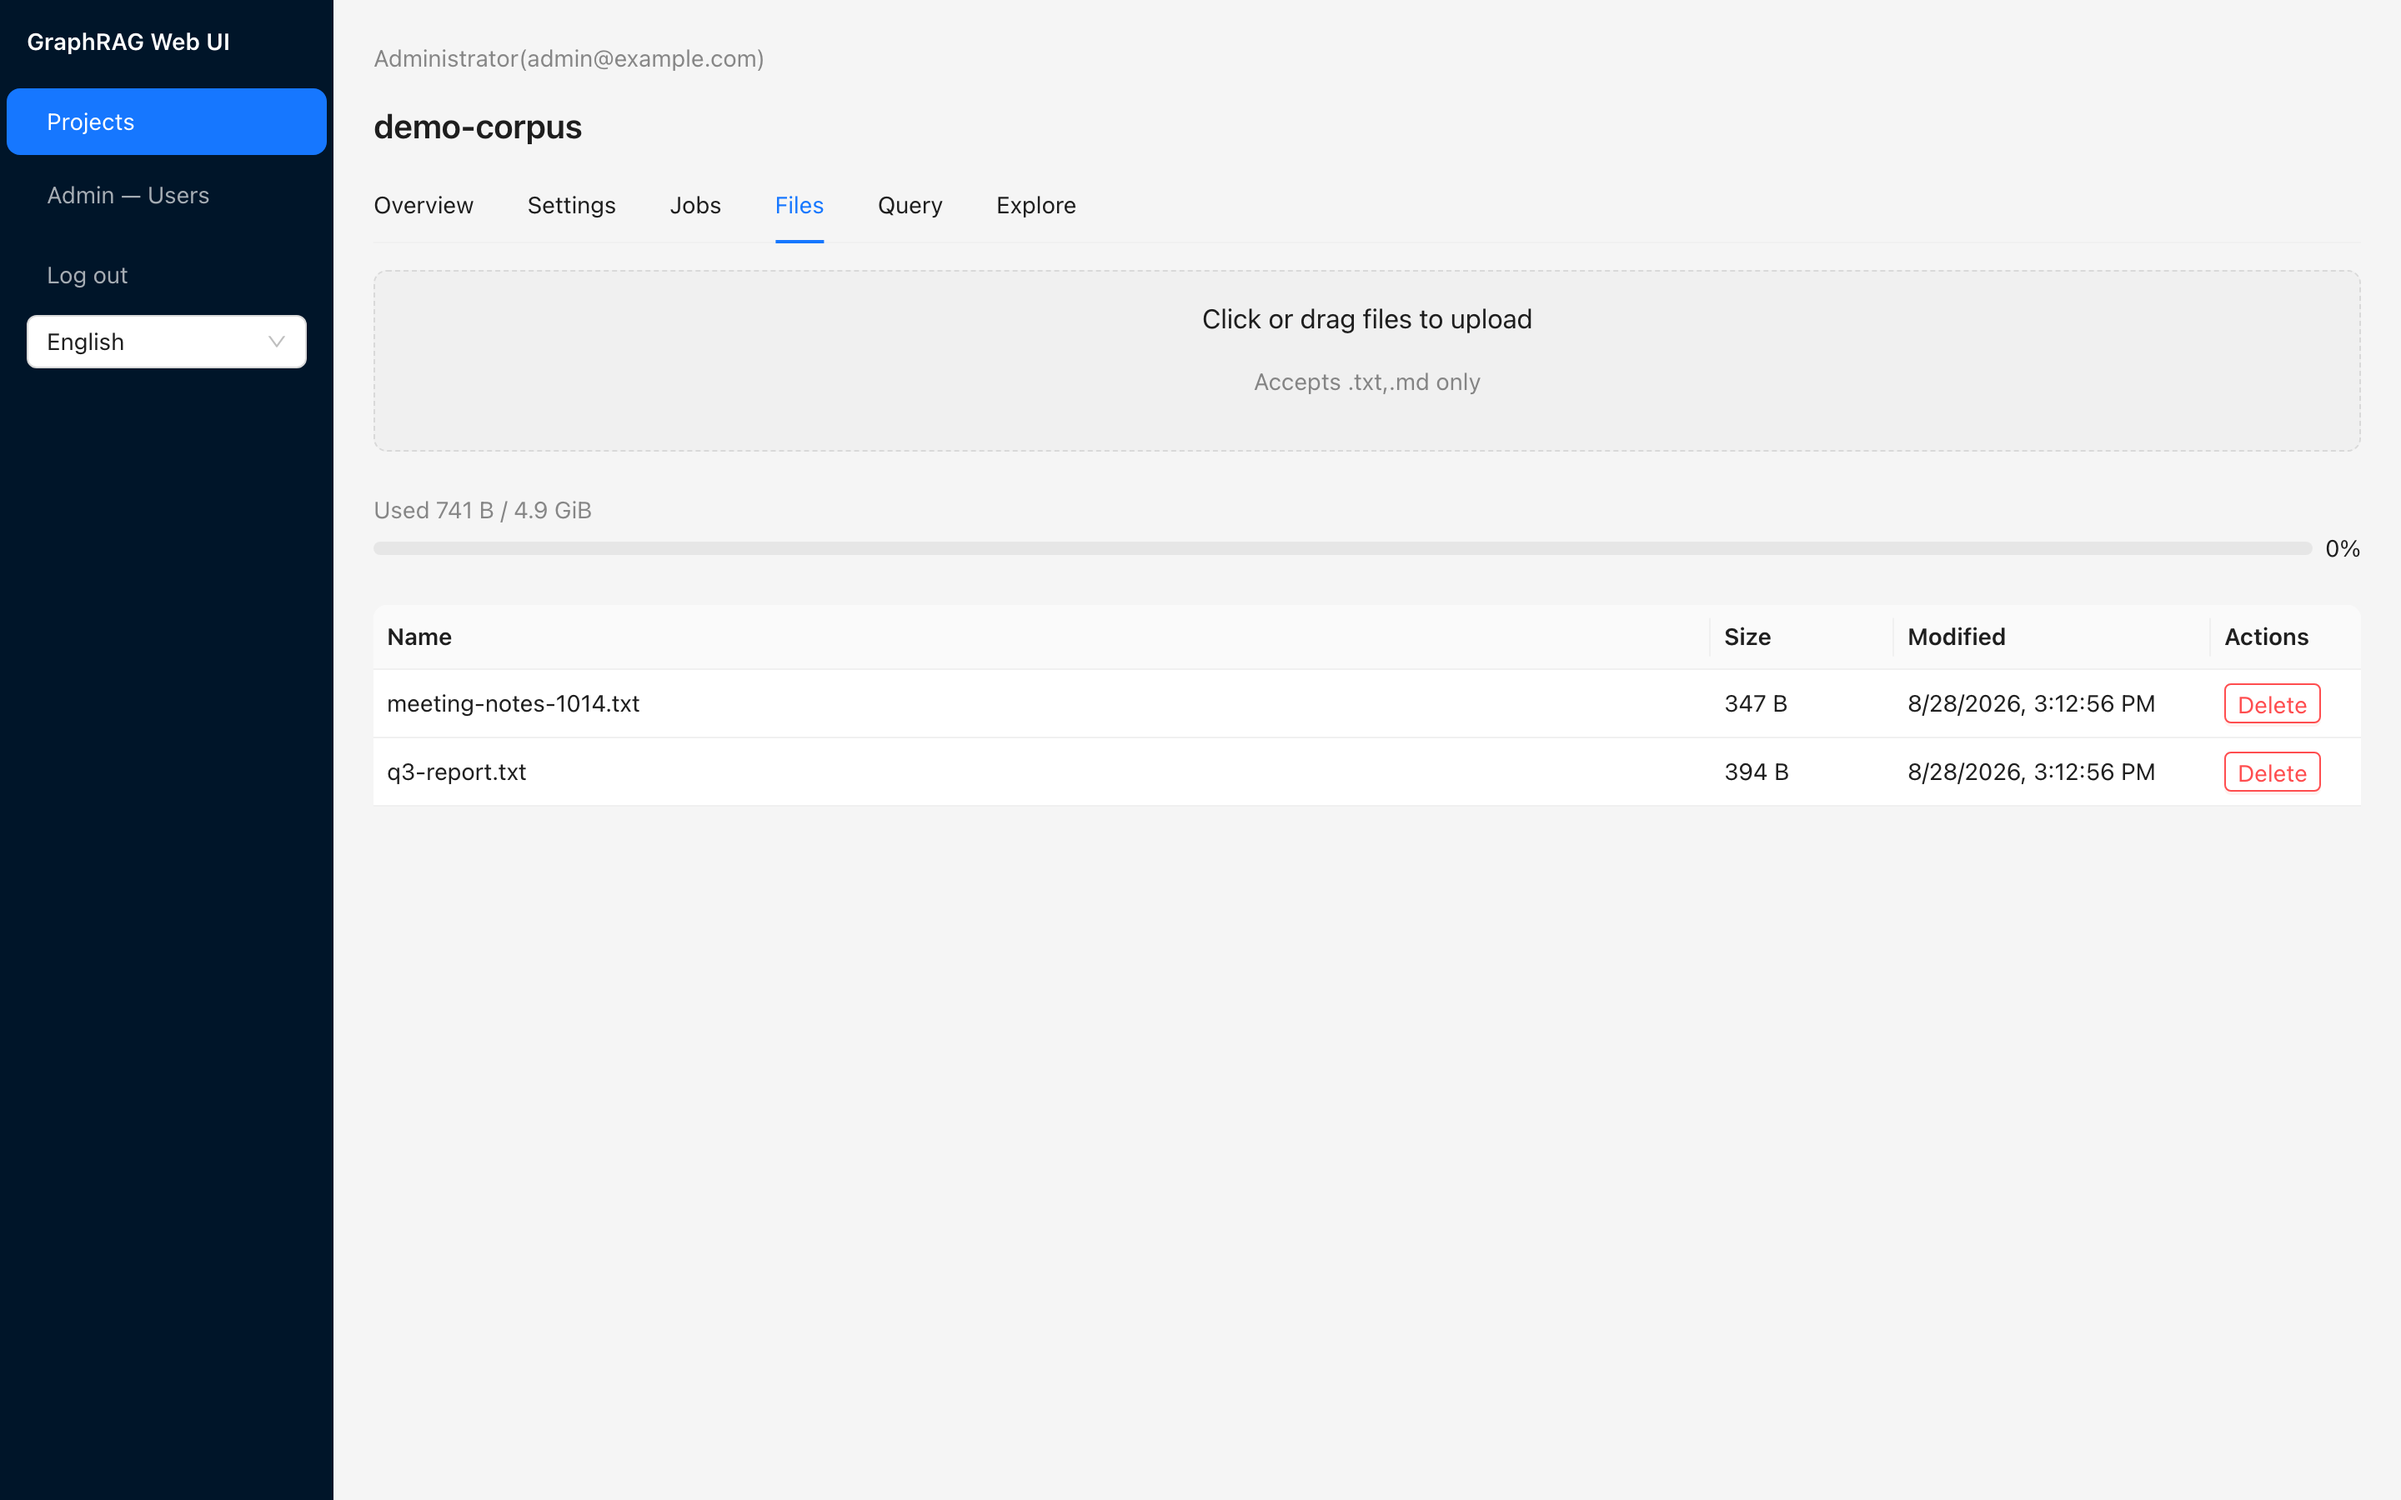
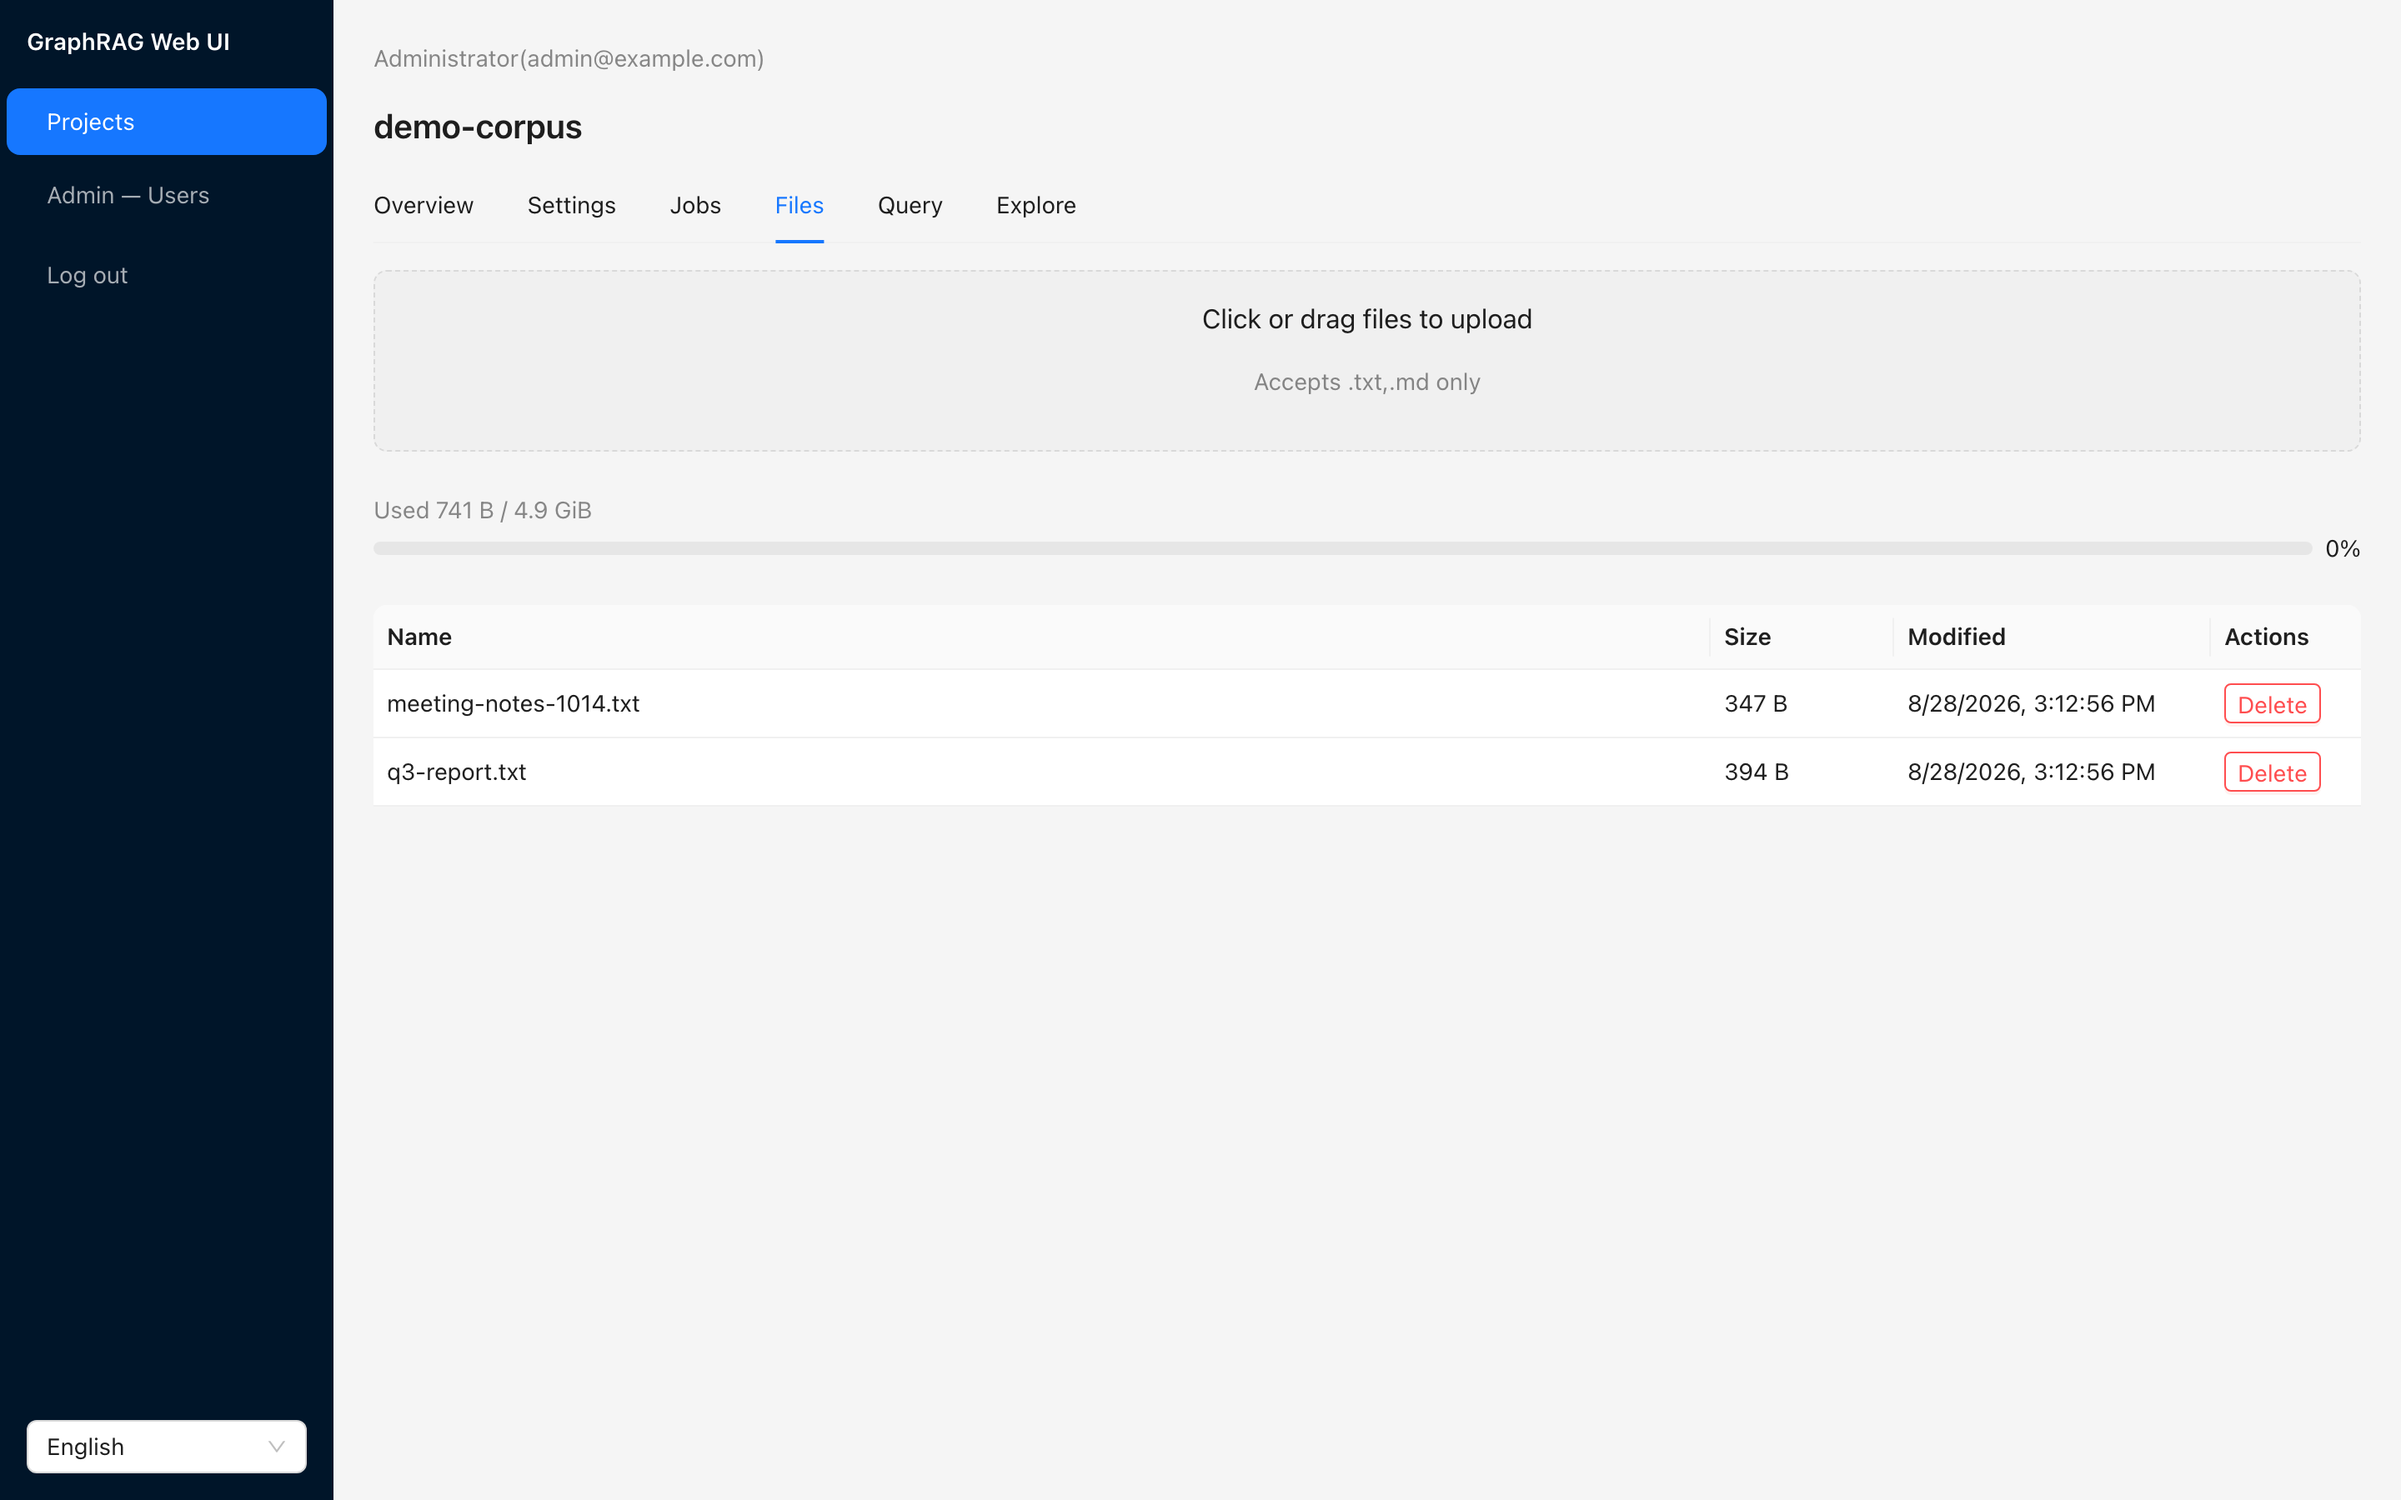
fix(ui): actually pin the language dropdown to the sidebar bottom
The marginTop:auto trick never worked: antd renders
.ant-layout-sider-children as display:block, where auto margins push
nothing — logout and the dropdown sat clustered at the top (select at
y=221 of a 900px viewport, measured). A flex-column wrapper around the
Sider content gives the auto margin a flex context: nav + logout stay
at the top, the whitespace stretches between logout and the dropdown,
and the dropdown pins to the bottom-left corner (select bottom at
y=884, gap 667px, measured).

Both earlier 'placement' commits were render no-ops for the same
reason — the byte-identical screenshots said so, and I misread two
leading image inspections as confirmation. This one is verified by
geometry, not eyeballing.

Changed region(s): [[0.0, 0.9333, 0.125, 0.9956], [0.0, 0.1867, 0.125, 0.2489]]

diff --git a/frontend/src/components/Layout.tsx b/frontend/src/components/Layout.tsx
@@ -28,6 +28,10 @@ export default function Layout() {
   return (
     <AntLayout style={{ minHeight: "100vh" }}>
       <AntLayout.Sider>
+        {/* antd's .ant-layout-sider-children is display:block — auto
+            margins push nothing. A flex column wrapper is what actually
+            pins the language dropdown to the bottom-left corner. */}
+        <div style={{ display: "flex", flexDirection: "column", height: "100%" }}>
         <div style={{ color: "#fff", padding: 16, fontWeight: 600 }}>{t("common.appName")}</div>
         <Menu
           theme="dark"
@@ -58,6 +62,7 @@ export default function Layout() {
             popupMatchSelectWidth={false}
             style={{ width: "100%" }}
           />
+        </div>
         </div>
       </AntLayout.Sider>
       <AntLayout.Content style={{ padding: 24 }}>
